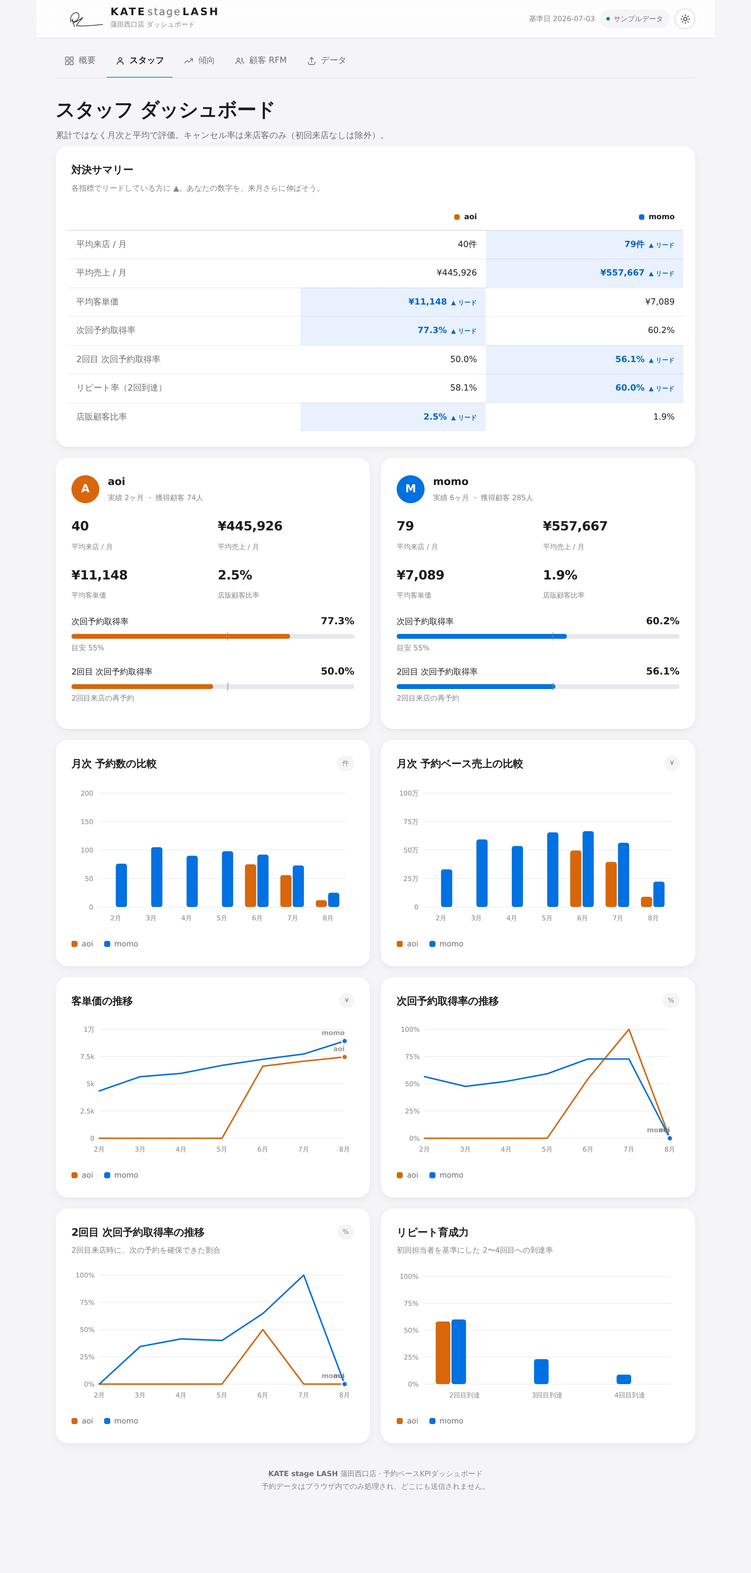
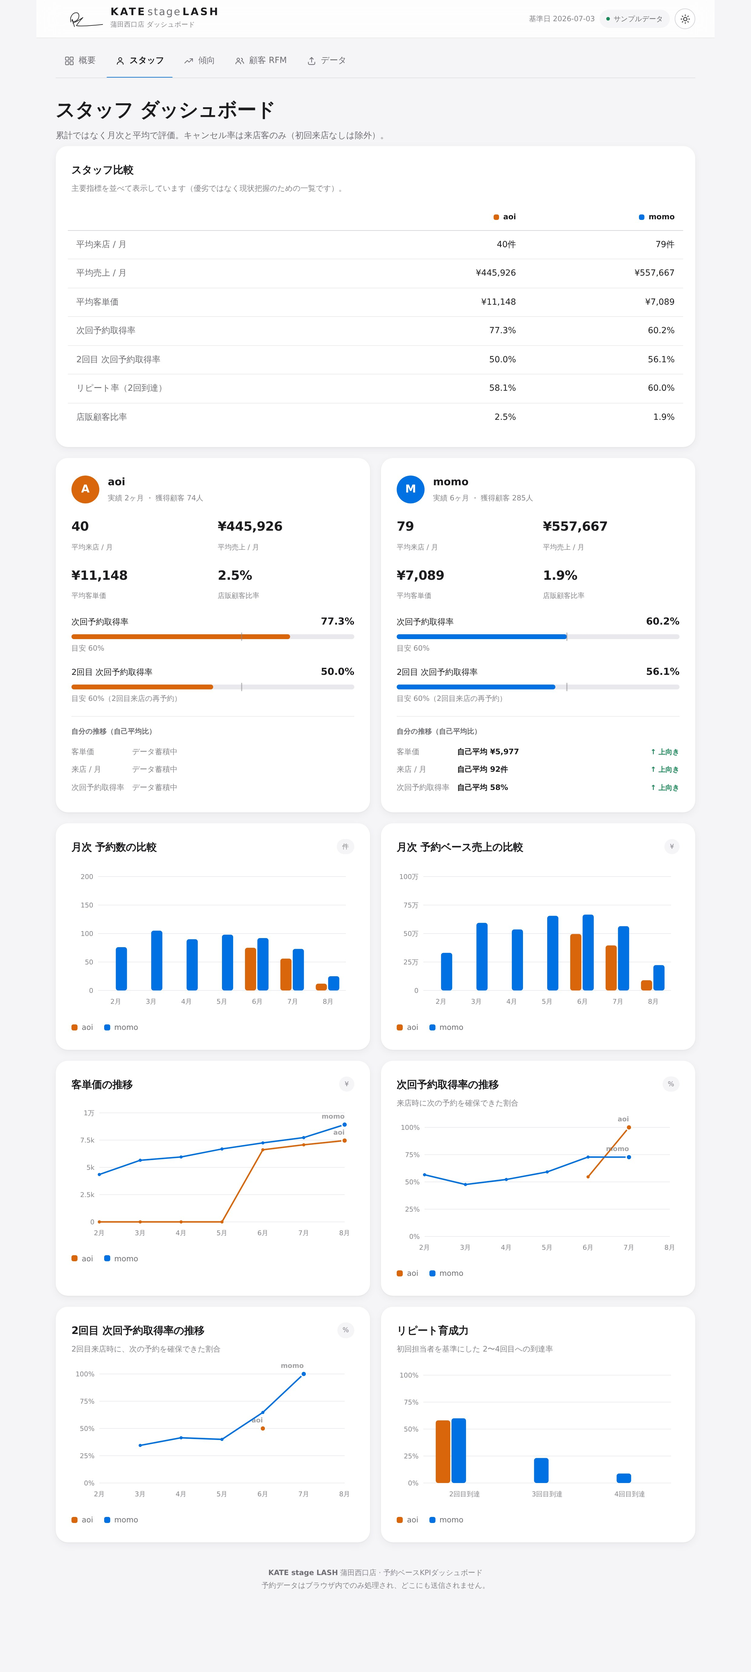
目安値70/60/30・スタッフ比較の中立化＋自己平均比・2回目次回予約取得率の打ち切り修正（#8）
目安（ターゲット）の更新
- リピート率（2回到達）70% ／ 次回予約取得率 60% ／ 固定化率（3回以上）30%
- 概要メーター・スタッフメーターに反映

概要
- キャンセル内訳カードを削除（総キャンセル率タイルは維持）
- 下段を 店販実績／集客経路／来店回数構成 の3枚に整理

スタッフ（競争をあおらない設計へ）
- 「対決サマリー」→「スタッフ比較」に改称。▲リード・勝敗ハイライトを撤去し
  中立の一覧表に変更
- 各カードに「自分の推移（自己平均比）」を追加。他者比較ではなく、本人の
  過去平均に対する上向き/横ばい/下向きで成長を促進（当月の途中集計月は除外）

2回目次回予約取得率の数値修正（右側打ち切り対応）
- 会計明細（これからの予約が無いデータ）では、直近月は再来待ちで未成熟のため
  次回予約系の月次値をトリミング（engine: 成熟度判定を追加）
- 折れ線チャートで欠損月を0%ではなくギャップ表示に（charts: null対応）
- 対象外の直近月がある場合はチャートに注記、成熟データが無いスタッフは「—」表示

回帰テスト 69項目すべて合格。概要・スタッフをサンプル/実データ（会計明細）で
レンダリング確認、コンソールエラー0。

Claude-Session: https://claude.ai/code/session_012eY9422UrXKcAKGFSsTCXy

diff --git a/assets/js/app.js b/assets/js/app.js
@@ -117,7 +117,6 @@
     });
     html += card({ col: 'col-4', title: '集客経路', sub: '有効予約に占める構成', body: chartBox('cRoute', 210) });
     html += card({ col: 'col-3', title: '来店回数の構成', sub: '回数別', body: '<div id="cVisitComp"></div>' });
-    html += card({ col: 'col-6', title: 'キャンセル内訳', sub: s.cancel.hasInfo ? 'HOT PEPPER Beauty を除く（確定 ' + s.cancel.confirmed + '件）' : '会計実績のみのデータ', body: s.cancel.hasInfo ? '<div id="cCancel"></div>' : '<div class="empty-note">このデータには予約ステータス（キャンセル）が含まれていないため、キャンセル率は算出できません。<br>キャンセルも分析するには、<b>「予約データ」</b>（ステータス列つき）をご利用ください。</div>' });
 
     mount('overview', head + '<div class="grid">' + html + '</div>');
 
@@ -125,9 +124,9 @@
     tileSpark('sparkSpend', s.monthly.map(function (m) { return m.spend; }));
     tileSpark('sparkCancel', s.monthly.filter(function (m) { return m.cancel != null; }).map(function (m) { return m.cancel * 100; }));
 
-    draw('mRepeat', function (el) { C.meter(el, { label: 'リピート率（2回到達）', value: s.repeatRate / 100, display: pct(s.repeatRate), target: 0.5, sub: '目安 50%' }); });
-    draw('mNext', function (el) { C.meter(el, { label: '次回予約取得率', value: s.nextReserveRate / 100, display: pct(s.nextReserveRate), target: 0.55, sub: '来店時に次の予約を取った割合' }); });
-    draw('mFix', function (el) { C.meter(el, { label: '固定化率（3回以上）', value: s.fixationRate / 100, display: pct(s.fixationRate), target: 0.2, sub: '目安 20%' }); });
+    draw('mRepeat', function (el) { C.meter(el, { label: 'リピート率（2回到達）', value: s.repeatRate / 100, display: pct(s.repeatRate), target: 0.7, sub: '目安 70%' }); });
+    draw('mNext', function (el) { C.meter(el, { label: '次回予約取得率', value: s.nextReserveRate / 100, display: pct(s.nextReserveRate), target: 0.6, sub: '目安 60%（来店時に次の予約を取った割合）' }); });
+    draw('mFix', function (el) { C.meter(el, { label: '固定化率（3回以上）', value: s.fixationRate / 100, display: pct(s.fixationRate), target: 0.3, sub: '目安 30%' }); });
 
     draw('cRevenue', function (el) {
       C.columns(el, {
@@ -157,17 +156,6 @@
         centerValue: F.int(s.effectiveReservations), centerLabel: '有効予約', valueFmt: function (v) { return v + '件'; }, height: 210
       });
     });
-    draw('cCancel', function (el) {
-      var tot = s.cancel.customerCount + s.cancel.salonCount + s.cancel.noShowCount;
-      C.hbars(el, {
-        max: tot || 1,
-        items: [
-          { label: 'サロン都合', value: s.cancel.salonCount, sub: pct((s.cancel.salon) * 100, 1), color: cvar('--series-2') },
-          { label: 'お客様都合', value: s.cancel.customerCount, sub: pct((s.cancel.customer) * 100, 1), color: cvar('--series-5') },
-          { label: '無断', value: s.cancel.noShowCount, sub: pct((s.cancel.noShow) * 100, 1), color: cvar('--series-7') }
-        ], valueFmt: function (v) { return v + '件'; }
-      });
-    });
     draw('cVisitComp', function (el) {
       C.hbars(el, {
         items: s.visitCountBreakdown.map(function (b, i) { return { label: b.label, value: b.count, sub: '客単価 ' + yen(b.spend), color: cvar(['--funnel-2', '--funnel-3', '--funnel-4', '--funnel-5'][i]) }; }),
@@ -195,29 +183,29 @@
   function renderStaff() {
     var A = state.analytics, months = A.store.monthly.map(function (m) { return monthShort(m.m); });
     var staff = A.staff;
+    var asOfMonth = A.meta.asOf ? A.meta.asOf.slice(0, 7) : null;
     var head = '<div class="view-title">スタッフ ダッシュボード</div><div class="view-lead">累計ではなく月次と平均で評価。キャンセル率は来店客のみ（初回来店なしは除外）。</div>';
     var html = '';
 
-    // 対決サマリー (head-to-head scoreboard — the motivator)
+    // スタッフ比較（中立の一覧表 — 競争をあおる表現はしない）
+    var pctOrDash = function (v, d) { return v == null || !isFinite(v) ? '—' : pct(v * 100, d); };
     var vsMetrics = [
-      { label: '平均来店 / 月', get: function (st) { return st.avg.visitsPerMonth; }, fmt: function (v) { return F.int(v) + '件'; } },
-      { label: '平均売上 / 月', get: function (st) { return st.avg.revPerMonth; }, fmt: function (v) { return yen(v); } },
-      { label: '平均客単価', get: function (st) { return st.avg.spend; }, fmt: function (v) { return yen(v); } },
-      { label: '次回予約取得率', get: function (st) { return st.avg.nextRes; }, fmt: function (v) { return pct(v * 100); } },
-      { label: '2回目 次回予約取得率', get: function (st) { return st.avg.nextRes2 || 0; }, fmt: function (v) { return pct(v * 100); } },
-      { label: 'リピート率（2回到達）', get: function (st) { return st.reach2; }, fmt: function (v) { return pct(v * 100); } },
-      { label: '店販顧客比率', get: function (st) { return st.retail.customerRatio; }, fmt: function (v) { return pct(v * 100, 1); } }
+      { label: '平均来店 / 月', fmt: function (st) { return F.int(st.avg.visitsPerMonth) + '件'; } },
+      { label: '平均売上 / 月', fmt: function (st) { return yen(st.avg.revPerMonth); } },
+      { label: '平均客単価', fmt: function (st) { return yen(st.avg.spend); } },
+      { label: '次回予約取得率', fmt: function (st) { return pctOrDash(st.avg.nextRes); } },
+      { label: '2回目 次回予約取得率', fmt: function (st) { return pctOrDash(st.avg.nextRes2); } },
+      { label: 'リピート率（2回到達）', fmt: function (st) { return pctOrDash(st.reach2); } },
+      { label: '店販顧客比率', fmt: function (st) { return pctOrDash(st.retail.customerRatio, 1); } }
     ];
     var vs = '<div class="table-wrap"><table class="vs-table"><thead><tr><th></th>' +
       staff.map(function (st) { return '<th><i class="vs-dot" style="background:' + cvar(STAFF_COLOR[st.name]) + '"></i>' + esc(st.name) + '</th>'; }).join('') + '</tr></thead><tbody>' +
       vsMetrics.map(function (m) {
-        var vals = staff.map(m.get); var max = Math.max.apply(null, vals);
-        return '<tr><td>' + m.label + '</td>' + staff.map(function (st, i) {
-          var win = vals[i] === max && max > 0;
-          return '<td class="' + (win ? 'vs-win' : '') + '"><b>' + m.fmt(vals[i]) + '</b>' + (win ? '<span class="vs-lead">▲ リード</span>' : '') + '</td>';
+        return '<tr><td>' + m.label + '</td>' + staff.map(function (st) {
+          return '<td><b>' + m.fmt(st) + '</b></td>';
         }).join('') + '</tr>';
       }).join('') + '</tbody></table></div>';
-    html += card({ col: 'col-12', title: '対決サマリー', sub: '各指標でリードしている方に ▲。あなたの数字を、来月さらに伸ばそう。', body: vs });
+    html += card({ col: 'col-12', title: 'スタッフ比較', sub: '主要指標を並べて表示しています（優劣ではなく現状把握のための一覧です）。', body: vs });
 
     // Staff cards
     staff.forEach(function (st, i) {
@@ -231,25 +219,27 @@
           sm(yen(st.avg.spend), '平均客単価') + sm(pct(st.retail.customerRatio * 100, 1), '店販顧客比率') +
           '</div>' +
           '<div id="stMeter' + i + '" style="margin-top:16px"></div>' +
-          '<div id="stMeter2_' + i + '"></div>'
+          '<div id="stMeter2_' + i + '"></div>' +
+          sgPanel(st, asOfMonth)
       });
     });
 
     html += card({ col: 'col-6', title: '月次 予約数の比較', tag: '件', body: chartBox('cStaffRes', 240) });
     html += card({ col: 'col-6', title: '月次 予約ベース売上の比較', tag: '¥', body: chartBox('cStaffRev', 240) });
     html += card({ col: 'col-6', title: '客単価の推移', tag: '¥', body: chartBox('cStaffSpend', 230) });
-    html += card({ col: 'col-6', title: '次回予約取得率の推移', tag: '%', body: chartBox('cStaffNext', 230) });
-    html += card({ col: 'col-6', title: '2回目 次回予約取得率の推移', sub: '2回目来店時に、次の予約を確保できた割合', tag: '%', body: chartBox('cStaffNext2', 230) });
+    var censNote = A.meta.completedOnly ? '　※直近の月は再来待ちのため集計対象外' : '';
+    html += card({ col: 'col-6', title: '次回予約取得率の推移', sub: '来店時に次の予約を確保できた割合' + censNote, tag: '%', body: chartBox('cStaffNext', 230) });
+    html += card({ col: 'col-6', title: '2回目 次回予約取得率の推移', sub: '2回目来店時に、次の予約を確保できた割合' + censNote, tag: '%', body: chartBox('cStaffNext2', 230) });
     html += card({ col: 'col-6', title: 'リピート育成力', sub: '初回担当者を基準にした 2〜4回目への到達率', body: chartBox('cStaffRepeat', 230) });
 
     mount('staff', head + '<div class="grid">' + html + '</div>');
 
     staff.forEach(function (st, i) {
       draw('stMeter' + i, function (el) {
-        C.meter(el, { label: '次回予約取得率', value: st.avg.nextRes, display: pct(st.avg.nextRes * 100), color: cvar(STAFF_COLOR[st.name]), target: 0.55, sub: '目安 55%' });
+        C.meter(el, { label: '次回予約取得率', value: st.avg.nextRes || 0, display: st.avg.nextRes == null ? '—' : pct(st.avg.nextRes * 100), color: cvar(STAFF_COLOR[st.name]), target: 0.6, sub: '目安 60%' });
       });
       draw('stMeter2_' + i, function (el) {
-        C.meter(el, { label: '2回目 次回予約取得率', value: st.avg.nextRes2 || 0, display: st.avg.nextRes2 == null ? '—' : pct(st.avg.nextRes2 * 100), color: cvar(STAFF_COLOR[st.name]), target: 0.55, sub: '2回目来店の再予約' });
+        C.meter(el, { label: '2回目 次回予約取得率', value: st.avg.nextRes2 || 0, display: st.avg.nextRes2 == null ? '—' : pct(st.avg.nextRes2 * 100), color: cvar(STAFF_COLOR[st.name]), target: 0.6, sub: '目安 60%（2回目来店の再予約）' });
       });
     });
     var seriesRes = staff.map(function (st) { return { name: st.name, color: cvar(STAFF_COLOR[st.name]), values: st.monthly.map(function (m) { return m.res; }) }; });
@@ -259,14 +249,14 @@
     draw('cStaffNext', function (el) {
       C.lineArea(el, {
         xLabels: months, area: false, yMax: 100,
-        series: staff.map(function (st) { return { name: st.name, color: cvar(STAFF_COLOR[st.name]), values: st.monthly.map(function (m) { return m.nextRes == null ? 0 : m.nextRes * 100; }) }; }),
+        series: staff.map(function (st) { return { name: st.name, color: cvar(STAFF_COLOR[st.name]), values: st.monthly.map(function (m) { return m.nextRes == null ? null : m.nextRes * 100; }) }; }),
         valueFmt: function (v) { return v.toFixed(0) + '%'; }, yFmt: function (v) { return v.toFixed(0) + '%'; }, height: 230
       });
     });
     draw('cStaffNext2', function (el) {
       C.lineArea(el, {
         xLabels: months, area: false, yMax: 100,
-        series: staff.map(function (st) { return { name: st.name, color: cvar(STAFF_COLOR[st.name]), values: st.monthly.map(function (m) { return m.nextRes2 == null ? 0 : m.nextRes2 * 100; }) }; }),
+        series: staff.map(function (st) { return { name: st.name, color: cvar(STAFF_COLOR[st.name]), values: st.monthly.map(function (m) { return m.nextRes2 == null ? null : m.nextRes2 * 100; }) }; }),
         valueFmt: function (v) { return v.toFixed(0) + '%'; }, yFmt: function (v) { return v.toFixed(0) + '%'; }, height: 230
       });
     });
@@ -280,6 +270,36 @@
     flush();
   }
   function sm(v, label) { return '<div class="staff-metric"><b>' + v + '</b><span>' + label + '</span></div>'; }
+
+  // Growth vs the staff member's OWN history (not vs the other staff). Compares the
+  // average of their earlier active months to their recent active months.
+  function selfGrowth(st, pick, asOfMonth) {
+    // Only fully-settled months: exclude the as-of month (partial export) and any future ones,
+    // so a half-finished current month doesn't bias counts downward.
+    var v = st.monthly.filter(function (m) { return m.actual > 0 && (!asOfMonth || m.m < asOfMonth); })
+      .map(pick).filter(function (x) { return x != null && isFinite(x); });
+    if (v.length < 2) return null;
+    var avg = v.reduce(function (a, b) { return a + b; }, 0) / v.length;
+    var h = Math.max(1, Math.floor(v.length / 2));
+    var early = v.slice(0, h), late = v.slice(v.length - h);
+    var ea = early.reduce(function (a, b) { return a + b; }, 0) / early.length;
+    var la = late.reduce(function (a, b) { return a + b; }, 0) / late.length;
+    var rel = ea ? (la - ea) / Math.abs(ea) : 0;
+    return { avg: avg, late: la, dir: rel > 0.03 ? 'up' : rel < -0.03 ? 'down' : 'flat' };
+  }
+  function sgRow(label, st, pick, fmt, asOfMonth) {
+    var g = selfGrowth(st, pick, asOfMonth);
+    if (!g) return '<div class="sg-row"><span>' + label + '</span><b class="sg-na">データ蓄積中</b></div>';
+    var arrow = g.dir === 'up' ? '↑ 上向き' : g.dir === 'down' ? '↓ 下向き' : '→ 横ばい';
+    return '<div class="sg-row"><span>' + label + '</span><b>自己平均 ' + fmt(g.avg) + '</b><em class="sg-' + g.dir + '">' + arrow + '</em></div>';
+  }
+  function sgPanel(st, asOfMonth) {
+    return '<div class="self-growth"><div class="sg-title">自分の推移（自己平均比）</div>' +
+      sgRow('客単価', st, function (m) { return m.spend; }, function (v) { return yen(Math.round(v)); }, asOfMonth) +
+      sgRow('来店 / 月', st, function (m) { return m.actual; }, function (v) { return F.int(v) + '件'; }, asOfMonth) +
+      sgRow('次回予約取得率', st, function (m) { return m.nextRes == null ? null : m.nextRes * 100; }, function (v) { return v.toFixed(0) + '%'; }, asOfMonth) +
+      '</div>';
+  }
 
   // ============================ TREND ======================================
   var trendMetric = 'visits';

diff --git a/assets/js/charts.js b/assets/js/charts.js
@@ -132,32 +132,41 @@
       t.textContent = lx; svg.appendChild(t);
     });
 
+    function defined(v) { return v != null && isFinite(v); }
     series.forEach(function (s, si) {
       var color = s.color || seriesColor(si);
       if (!s.values || !s.values.length) return;   // skip empty series
-      var pts = s.values.map(function (v, i) { return [xat(i), yat(v)]; });
-      if (opts.area !== false && !s.dashed) {
+      // null / non-finite values become gaps (missing data), not points at zero
+      var pts = s.values.map(function (v, i) { return defined(v) ? [xat(i), yat(v)] : null; });
+      var shown = pts.filter(Boolean);
+      if (!shown.length) return;                    // nothing to plot for this series
+      var hasGap = pts.some(function (p) { return !p; });
+      if (opts.area !== false && !s.dashed && !hasGap) {
         var gid = 'grad' + si + '-' + Math.floor(xat(0));
         var defs = svgEl('defs');
         var lg2 = svgEl('linearGradient', { id: gid, x1: 0, y1: 0, x2: 0, y2: 1 });
         lg2.appendChild(svgEl('stop', { offset: '0%', 'stop-color': color, 'stop-opacity': 0.18 }));
         lg2.appendChild(svgEl('stop', { offset: '100%', 'stop-color': color, 'stop-opacity': 0.01 }));
         defs.appendChild(lg2); svg.appendChild(defs);
-        var ad = 'M' + pts.map(function (p) { return p[0] + ',' + p[1]; }).join('L') + 'L' + xat(n - 1) + ',' + yat(0) + 'L' + xat(0) + ',' + yat(0) + 'Z';
+        var ad = 'M' + shown.map(function (p) { return p[0] + ',' + p[1]; }).join('L') + 'L' + shown[shown.length - 1][0] + ',' + yat(0) + 'L' + shown[0][0] + ',' + yat(0) + 'Z';
         var area = svgEl('path', { d: ad, fill: 'url(#' + gid + ')', opacity: 0 });
         svg.appendChild(area); animateAttr(area, 'opacity', 0, 1, 600, 300 + si * 80);
       }
-      var d = 'M' + pts.map(function (p) { return p[0] + ',' + p[1]; }).join('L');
+      // build the line, lifting the pen across gaps
+      var d = '', pen = false;
+      pts.forEach(function (p) { if (!p) { pen = false; return; } d += (pen ? 'L' : 'M') + p[0] + ',' + p[1]; pen = true; });
       var path = svgEl('path', { d: d, fill: 'none', stroke: color, 'stroke-width': 2.4, 'stroke-linejoin': 'round', 'stroke-linecap': 'round' });
       if (s.dashed) path.setAttribute('stroke-dasharray', '5 5');
       svg.appendChild(path);
-      if (!noAnim()) {
+      if (!noAnim() && !hasGap) {
         var len = path.getTotalLength ? path.getTotalLength() : plotW;
         path.style.strokeDasharray = s.dashed ? '5 5' : len; path.style.strokeDashoffset = s.dashed ? 0 : len;
         if (!s.dashed) { path.getBoundingClientRect(); path.style.transition = 'stroke-dashoffset 900ms cubic-bezier(.22,.61,.36,1) ' + (si * 90) + 'ms'; path.style.strokeDashoffset = 0; }
       }
+      // dots at each real point (helps read sparse / gapped series)
+      shown.forEach(function (p) { svg.appendChild(svgEl('circle', { cx: p[0], cy: p[1], r: 2.6, fill: color })); });
       // end marker + label
-      var last = pts[pts.length - 1];
+      var last = shown[shown.length - 1];
       var ring = svgEl('circle', { cx: last[0], cy: last[1], r: 4.5, fill: color, stroke: ink.surface(), 'stroke-width': 2 });
       svg.appendChild(ring);
       if (s.endLabel !== false && !s.dashed) {
@@ -178,8 +187,10 @@
       var i = Math.max(0, Math.min(n - 1, Math.round((mx - padL) / (plotW / Math.max(1, n - 1)))));
       focus.setAttribute('x1', xat(i)); focus.setAttribute('x2', xat(i)); focus.setAttribute('opacity', 1);
       var rows = series.map(function (s, si) {
-        dots[si].setAttribute('cx', xat(i)); dots[si].setAttribute('cy', yat(s.values[i])); dots[si].setAttribute('opacity', 1);
-        return '<div class="kate-tip-row"><i style="background:' + (s.color || seriesColor(si)) + '"></i><span>' + esc(s.name) + '</span><b>' + (opts.valueFmt || fmtCompact)(s.values[i]) + '</b></div>';
+        var v = s.values[i];
+        if (!defined(v)) { dots[si].setAttribute('opacity', 0); return '<div class="kate-tip-row"><i style="background:' + (s.color || seriesColor(si)) + '"></i><span>' + esc(s.name) + '</span><b>—</b></div>'; }
+        dots[si].setAttribute('cx', xat(i)); dots[si].setAttribute('cy', yat(v)); dots[si].setAttribute('opacity', 1);
+        return '<div class="kate-tip-row"><i style="background:' + (s.color || seriesColor(si)) + '"></i><span>' + esc(s.name) + '</span><b>' + (opts.valueFmt || fmtCompact)(v) + '</b></div>';
       }).join('');
       showTip('<div class="kate-tip-title">' + esc(xs[i]) + '</div>' + rows, ev.clientX, box.top + yat(maxV));
     }

diff --git a/assets/js/engine.js b/assets/js/engine.js
@@ -177,6 +177,18 @@
     // ---- Store: revenue & counts -------------------------------------------
     var visitedRows = rows.filter(function (r) { return r.isVisited; });
     var futureRows = rows.filter(function (r) { return r.isFuture; });
+    // When the source has upcoming reservations (予約データ), a recent visit's
+    // "next reservation" is already knowable. When it does NOT (会計明細 = completed
+    // checkouts only), recent months are right-censored: not enough time has passed
+    // for the follow-up visit to appear, so those months' next-reservation rates are
+    // meaningless and get trimmed from the trend below.
+    var hasFuture = futureRows.length > 0;
+    var MATURITY_DAYS = 30;
+    function monthImmature(mo) {
+      if (hasFuture) return false;                 // future data → no censoring
+      var p = mo.split('-'); var end = new Date(+p[0], +p[1], 0);   // last day of month
+      return dayDiff(asOf, end) < MATURITY_DAYS;
+    }
     var revenueActual = visitedRows.reduce(function (s, r) { return s + r.kaikei; }, 0);
     var revenueExpected = futureRows.reduce(function (s, r) { return s + r.yoyaku; }, 0);
     var actualVisits = visitedRows.length;
@@ -337,13 +349,15 @@
         var vis2 = vis.filter(function (r) { return r._ord === 2; });
         var next2 = vis2.filter(function (r) { return visitGotNext(r); }).length;
         var rst = retailStats(vis, vis.length);
+        var immature = monthImmature(mo);          // right-censored recent month → not measurable
         return {
           m: mo, res: res, actual: vis.length, exp: fut.length, rev: rev,
           spend: vis.length ? Math.round(rev / res || 0) : (res ? Math.round(rev / res) : 0),
           new: newN,
           cancel: confVisitors.length ? canc.length / confVisitors.length : null,
-          nextRes: vis.length ? nextCnt / vis.length : null,
-          nextRes2: vis2.length ? next2 / vis2.length : null,       // 2回目来店の次回予約取得率
+          nextRes: immature || !vis.length ? null : nextCnt / vis.length,
+          nextRes2: immature || !vis2.length ? null : next2 / vis2.length,   // 2回目来店の次回予約取得率
+          nextResImmature: immature,
           retailRatio: rst.customerRatio, retailAmount: rst.amount, retailBuyers: rst.buyers
         };
       });
@@ -364,7 +378,7 @@
         spend: (function () { var v = active.reduce(function (s, r) { return s + r.actual; }, 0); var rv = active.reduce(function (s, r) { return s + r.rev; }, 0); return v ? Math.round(rv / v) : 0; })(),
         newPerMonth: active.length ? round(active.reduce(function (s, r) { return s + r.new; }, 0) / active.length, 1) : 0,
         cancel: (function () { var c = active.filter(function (r) { return r.cancel != null; }); return c.length ? c.reduce(function (s, r) { return s + r.cancel; }, 0) / c.length : 0; })(),
-        nextRes: (function () { var c = active.filter(function (r) { return r.nextRes != null; }); return c.length ? c.reduce(function (s, r) { return s + r.nextRes; }, 0) / c.length : 0; })(),
+        nextRes: (function () { var c = active.filter(function (r) { return r.nextRes != null; }); return c.length ? c.reduce(function (s, r) { return s + r.nextRes; }, 0) / c.length : null; })(),
         nextRes2: (function () { var c = active.filter(function (r) { return r.nextRes2 != null; }); return c.length ? c.reduce(function (s, r) { return s + r.nextRes2; }, 0) / c.length : null; })()
       };
       var staffVis = rows.filter(function (r) { return r.staff === name && r.isVisited; });
@@ -444,6 +458,7 @@
         months: months, staffNames: staffNames,
         totalRows: rows.length,
         undatedRows: rows.filter(function (r) { return !r.date; }).length,   // rows whose 来店日 couldn't be parsed
+        completedOnly: !hasFuture,   // 会計明細など、これからの予約が無い（＝直近月は打ち切り）
         generatedAt: options.now || null
       },
       store: {

diff --git a/assets/css/styles.css b/assets/css/styles.css
@@ -345,6 +345,18 @@ svg { display: block; }
 .staff-metric b { font-family: var(--font-display); font-size: 21px; font-weight: 600; letter-spacing: -0.02em; display: block; font-variant-numeric: tabular-nums; }
 .staff-metric span { font-size: 11.5px; color: var(--ink-muted); }
 
+/* ---- Self-growth panel (vs the staff member's own past average) -----------*/
+.self-growth { margin-top: 18px; padding-top: 14px; border-top: 1px solid var(--hairline); }
+.sg-title { font-size: 11.5px; font-weight: 600; color: var(--ink-secondary); margin-bottom: 8px; letter-spacing: .01em; }
+.sg-row { display: flex; align-items: baseline; gap: 8px; padding: 4px 0; font-size: 12.5px; }
+.sg-row > span { color: var(--ink-muted); min-width: 92px; }
+.sg-row > b { font-weight: 600; font-variant-numeric: tabular-nums; color: var(--ink-primary); }
+.sg-row > .sg-na { font-weight: 500; color: var(--ink-muted); }
+.sg-row > em { margin-left: auto; font-style: normal; font-size: 11.5px; font-weight: 600; }
+.sg-up { color: var(--status-good); }
+.sg-down { color: var(--ink-secondary); }
+.sg-flat { color: var(--ink-muted); }
+
 /* ---- Segmented control ----------------------------------------------------*/
 .segmented { display: inline-flex; padding: 2px; background: var(--surface-2); border-radius: 10px; gap: 2px; position: relative; }
 .segmented button { appearance: none; border: 0; background: transparent; cursor: pointer; padding: 6px 14px; font-size: 12.5px; font-weight: 500; color: var(--ink-secondary); border-radius: 8px; transition: color .2s; white-space: nowrap; z-index: 1; font-family: var(--font-sans); }
